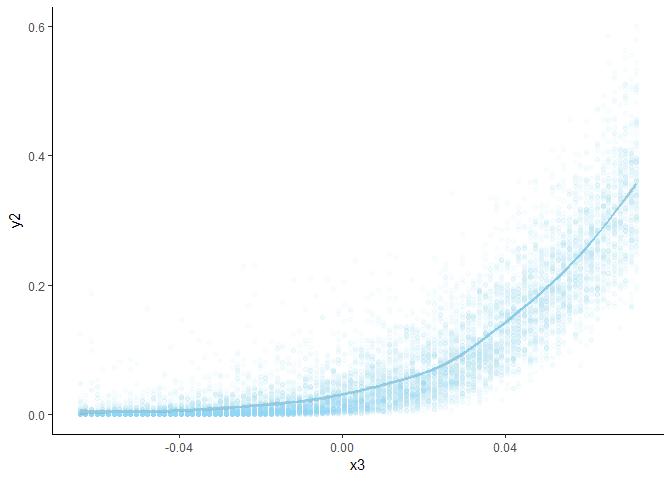
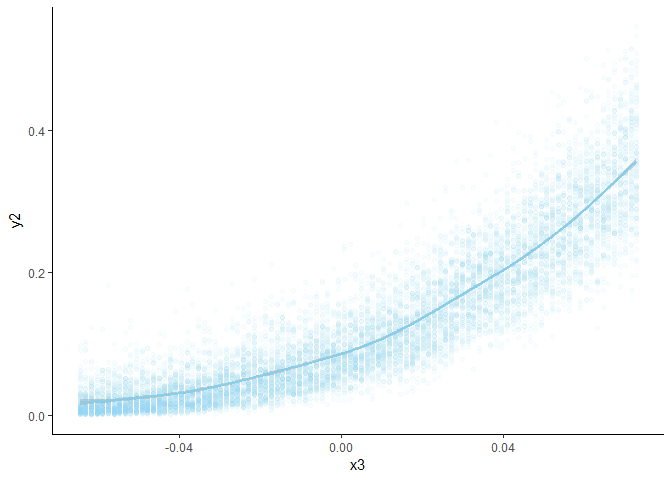
added transform x or y by function before plotting functionality.

diff --git a/README.md b/README.md
@@ -60,6 +60,8 @@ Arguments:
 -   **progress** - (Optional) Should progress be reported? Defaults to TRUE.
 -   **coord.ylim** - (Optional) Sets limits on what part of the x.axis to display through ggplots coord\_cartesian() function.
 -   **set.covar** - (Optional) Option to specify values of other predictors in simulations.
+-   **transform.x** - (Optional) If provided a function, transforms x-values according to function before plotting.
+-   **transform.y** - (Optional) If provided a function, transforms y-values according to function before plotting.
 -   **...** - (Optional) Additional arguments passed to ggplot2's *theme()* function.
 
 Citation:
